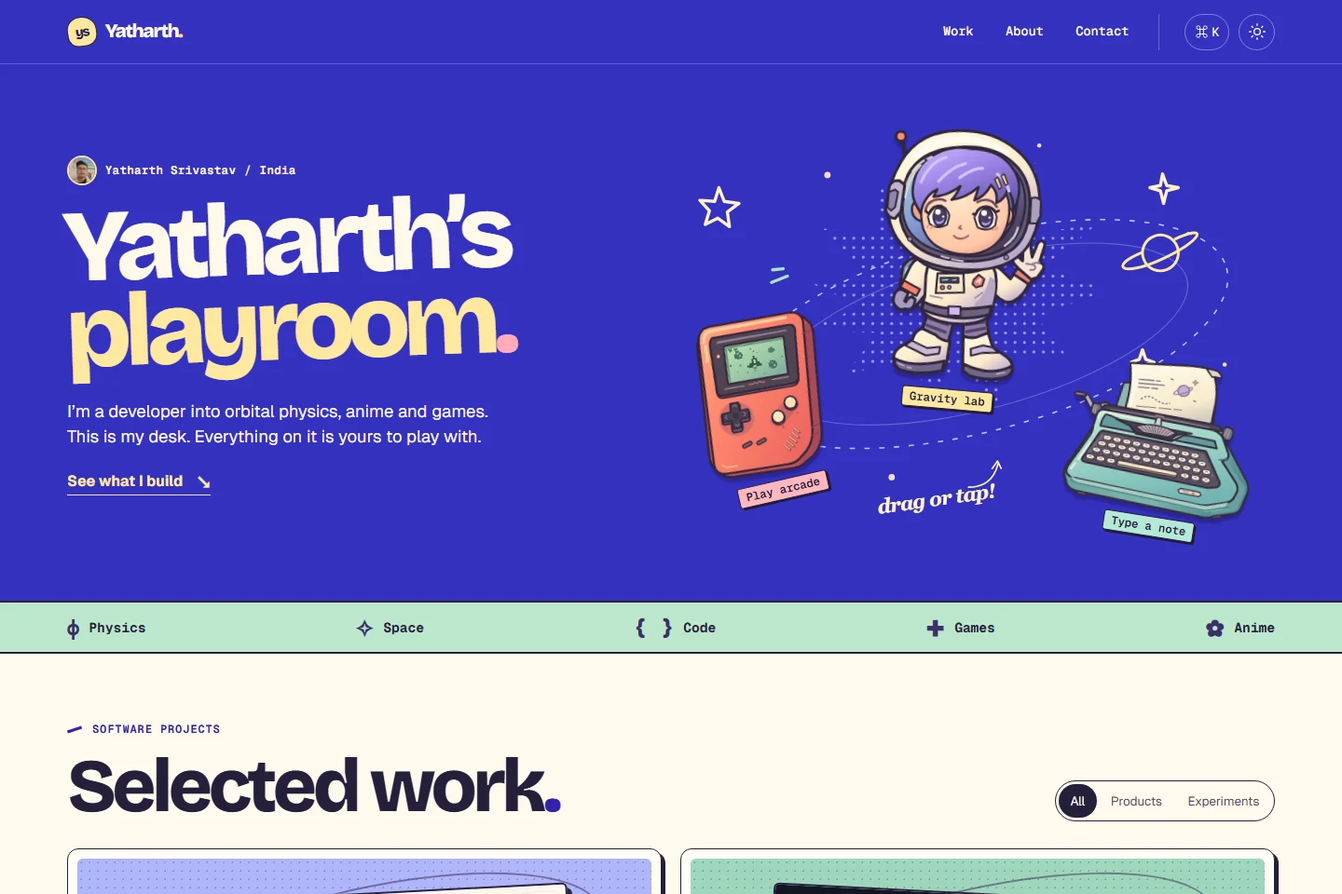
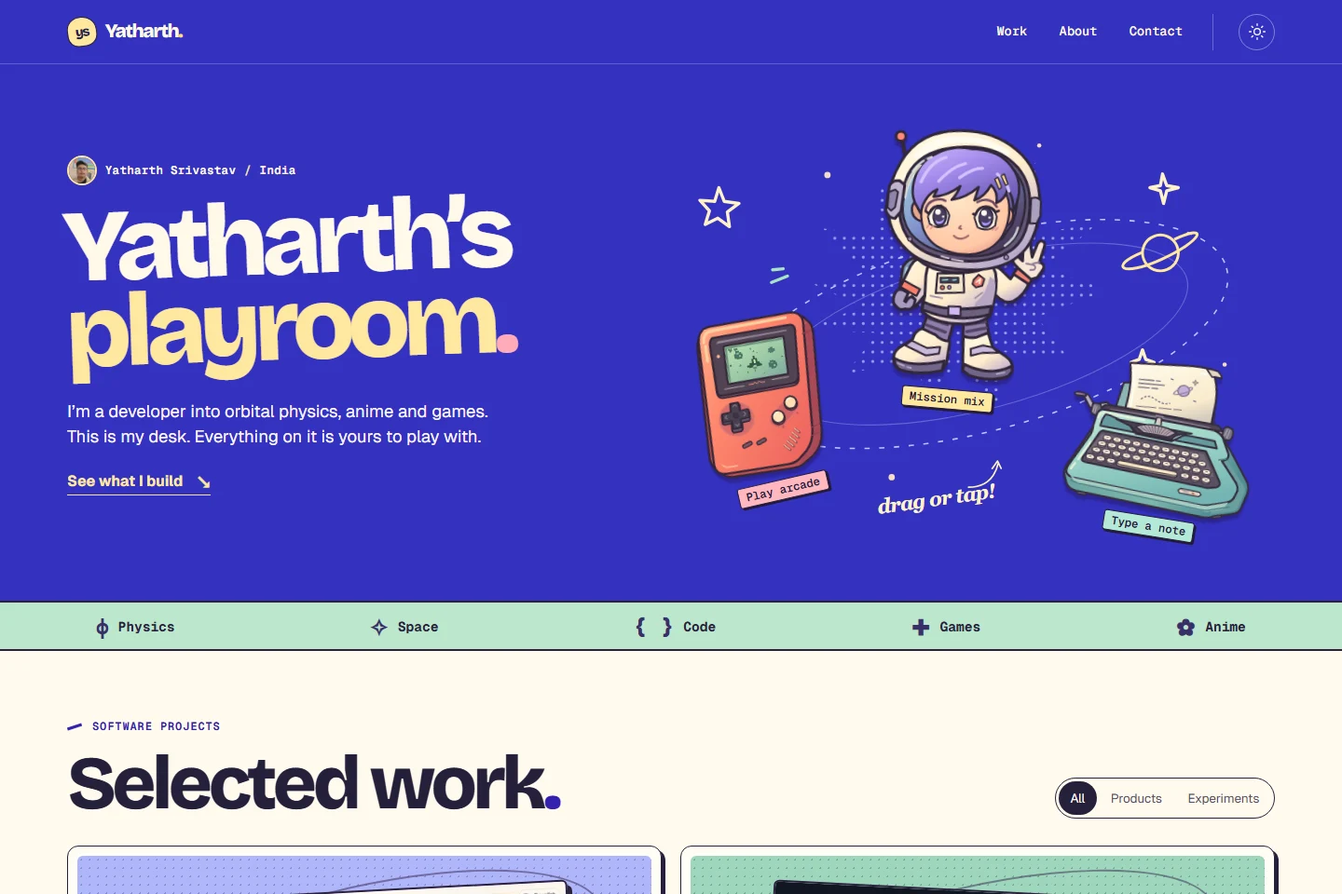
Animate the interest ribbon and add a speed-sensitive rocket cursor

diff --git a/src/studio.css b/src/studio.css
@@ -6,7 +6,7 @@
 .hero{display:grid;grid-template-columns:.98fr 1.02fr;align-items:center;gap:clamp(1rem,4vw,5rem);padding-block:clamp(3rem,6.4vw,6.5rem);position:relative}.eyebrow,.readout,.instrument-head,.art-id,.hint,.journey small{font-family:var(--mono)}.eyebrow{display:flex;align-items:center;gap:11px;text-transform:uppercase;font-size:.75rem;letter-spacing:.115em;font-weight:550;margin:0 0 1.6rem;color:var(--muted)}.eyebrow i{display:block;width:23px;height:2px;background:var(--accent)}h1,h2,h3,p,figure{margin:0}h1,h2,h3{line-height:1.04}h1{font-size:clamp(4rem,6.85vw,7.25rem);font-weight:580;letter-spacing:-.083em}.intro{font-size:clamp(1rem,1.48vw,1.28rem);color:var(--muted);max-width:34ch;line-height:1.55;margin:1.45rem 0 1.8rem}.actions{gap:.7rem;flex-wrap:wrap}.button,.dial{justify-content:center;gap:.55rem;min-height:46px;padding:.65rem 1rem;font-size:.9rem;line-height:1.2;font-weight:600;border:1px solid var(--line);border-radius:7px;background:var(--panel);color:var(--text);width:fit-content}.button .icon,.dial .icon{width:16px}.button.primary{background:var(--accent);color:var(--ink);border-color:transparent}.button.primary:hover{filter:brightness(1.12);color:var(--ink)}.byline{gap:.68rem;margin-top:2.2rem;font-size:.81rem;line-height:1.4;font-weight:560}.byline img{border:1px solid var(--line);width:36px;height:36px;border-radius:50%;object-fit:cover;object-position:50% 32%}.byline small{color:var(--muted);font-size:.75rem;font-weight:400}
 .section{border-top:1px solid var(--line);padding-block:clamp(2.7rem,5.5vw,5rem)}h2{font-weight:560;letter-spacing:-.065em;font-size:clamp(2.5rem,4.1vw,4.2rem)}.section .eyebrow{margin-bottom:.9rem}.section-head{justify-content:space-between;align-items:flex-end;gap:1rem;flex-wrap:wrap;margin-bottom:1.8rem}.filters{border:1px solid var(--line);padding:3px;border-radius:8px;gap:2px}.filters button{min-height:36px;padding:0 .8rem;background:transparent;color:var(--muted);font-size:.84rem;border-radius:5px}.filters button[aria-pressed=true]{background:var(--text);color:var(--bg)}.cards{display:grid;grid-template-columns:repeat(2,minmax(0,1fr));gap:2.3rem 1.5rem}.card{min-width:0}.art,.case-art{position:relative;overflow:hidden;background:#192329;border-radius:11px;border:1px solid var(--line);isolation:isolate}.art{aspect-ratio:2.22}.art img,.case-art img{width:100%;height:100%;object-fit:cover}.art-id{position:absolute;bottom:12px;left:12px;color:#f7f4f0;background:#16181bee;border:1px solid #73747c;border-radius:4px;padding:4px 8px;font-size:.67rem;letter-spacing:.04em;text-transform:uppercase}.card-info{justify-content:space-between;margin-top:1.05rem;gap:.5rem}.card-info h3{font-weight:580;font-size:1.7rem;letter-spacing:-.055em}.card-info p,.muted,.case-body p,.form-note,.journey p,.capture figcaption{color:var(--muted)}.card-info p{margin-top:.4rem}.card-open{flex:none;display:grid;place-items:center;width:37px;height:37px;border:1px solid var(--line);border-radius:50%}.card-hit:hover .card-open{color:var(--ink);background:var(--accent)}.tags{display:flex;flex-wrap:wrap;gap:.45rem;padding:0;margin:.8rem 0 0;list-style:none}.tags li{font-size:.76rem;line-height:1.2;border:1px solid var(--line);padding:.26rem .55rem;border-radius:20px;color:var(--muted)}
 .about-layout,.contact,.case-body{display:grid;grid-template-columns:.78fr 1.22fr;gap:clamp(2rem,6vw,6rem);align-items:center}.portrait{background:var(--panel);border-radius:12px;overflow:hidden}.portrait img{height:clamp(340px,37vw,500px);width:100%;object-fit:cover;object-position:50% 30%}.big-copy{margin:1.3rem 0 .85rem;font-size:clamp(1.1rem,1.8vw,1.45rem);line-height:1.5}.skills{margin-top:1.4rem}.skills>div{display:grid;grid-template-columns:minmax(6rem,.45fr) 1fr;gap:.6rem;padding:.6rem 0;border-top:1px solid var(--line);font-size:.92rem}.skills span{color:var(--muted)}.journey{margin-top:2rem;border-block:1px solid var(--line)}summary{cursor:pointer;padding:1rem 0;font-weight:550}.journey ol{list-style:none;padding:0}.journey li{display:flex;gap:2rem;margin:1rem 0}.journey small{color:var(--accent);flex:none}.contact{grid-template-columns:1fr 1fr;align-items:start}.contact .muted{margin:1.5rem 0 .5rem}.email{text-decoration:underline;text-underline-offset:5px;overflow-wrap:anywhere}.socials{flex-wrap:wrap;gap:1.3rem;margin-top:1.5rem;font-size:.93rem}.contact-form,.demo form{display:grid;gap:.9rem}.contact-form label,.demo label{display:grid;gap:.3rem;font-size:.9rem}.contact-form input,.contact-form textarea,.demo input{border:1px solid var(--line);border-radius:6px;background:var(--panel);color:var(--text);padding:.7rem;min-width:0;width:100%}.contact-form textarea{resize:vertical}.form-note{font-size:.78rem}.foot{justify-content:space-between;gap:1rem;border-top:1px solid var(--line);padding-block:1.4rem;color:var(--muted);font-size:.85rem;flex-wrap:wrap}.foot>span,.plain{gap:.5rem}.foot .mark{width:24px;height:24px}.foot .mark svg{width:18px}.plain{background:transparent;color:inherit;padding:.65rem}.plain .icon{width:16px}
-dialog{border:1px solid var(--line);border-radius:12px;background:var(--panel);color:var(--text);width:min(92vw,32rem);padding:1.2rem;box-shadow:0 30px 100px #0008;max-height:82dvh}dialog::backdrop{background:#08090bc9}.modal-head{justify-content:space-between;gap:1rem;margin-bottom:.8rem}.modal-head h2,aside h2,.demo h2,.case-body h2{font-size:1.45rem;letter-spacing:-.04em}.search,#cli label{gap:.5rem;border:1px solid var(--line);padding:.65rem .8rem;border-radius:6px}.search input,#cli input{width:100%;min-width:0;background:transparent;color:var(--text);border:0}.search input:focus-visible,#cli input:focus-visible{outline-offset:0}.hint{font-size:.73rem;color:var(--muted);margin-top:.7rem}#commands{display:grid;max-height:44dvh;overflow:auto;margin-top:.6rem;gap:.15rem}#commands button{display:flex;justify-content:space-between;background:transparent;border-radius:4px;padding:.65rem;text-align:left}#commands button:hover,#commands button:focus-visible{background:var(--bg);outline-offset:-3px}#commands small{color:var(--muted)}#history{font:.9rem/1.6 var(--mono);white-space:pre-wrap;overflow-wrap:anywhere;overflow:auto;max-height:40dvh}#history p{margin-block:.6rem}#cli{display:flex;gap:.5rem;margin-top:1rem}#cli label{display:flex;align-items:center;flex:1;color:var(--accent);white-space:nowrap}#cli button{background:var(--accent);color:var(--ink);border-radius:5px;padding:.4rem .8rem}
+dialog{border:1px solid var(--line);border-radius:12px;background:var(--panel);color:var(--text);width:min(92vw,32rem);padding:1.2rem;box-shadow:0 30px 100px #0008;max-height:82dvh}dialog::backdrop{background:#08090bc9}.modal-head{justify-content:space-between;gap:1rem;margin-bottom:.8rem}.modal-head h2,aside h2,.demo h2,.case-body h2{font-size:1.45rem;letter-spacing:-.04em}.search,#cli label{gap:.5rem;border:1px solid var(--line);padding:.65rem .8rem;border-radius:6px}.search input,#cli input{width:100%;min-width:0;background:transparent;color:var(--text);border:0}.search input:focus-visible,#cli input:focus-visible{outline-offset:0}.hint{font-size:.73rem;color:var(--muted);margin-top:.7rem}#history{font:.9rem/1.6 var(--mono);white-space:pre-wrap;overflow-wrap:anywhere;overflow:auto;max-height:40dvh}#history p{margin-block:.6rem}#cli{display:flex;gap:.5rem;margin-top:1rem}#cli label{display:flex;align-items:center;flex:1;color:var(--accent);white-space:nowrap}#cli button{background:var(--accent);color:var(--ink);border-radius:5px;padding:.4rem .8rem}
 .case{padding-block:2.5rem 4rem}.back{display:inline-block;text-decoration:underline;text-underline-offset:4px;margin:0 0 2rem}.case .eyebrow{margin-bottom:.75rem}.case-intro{font-size:1.3rem;color:var(--muted);margin:1rem 0}.case-art{margin-block:2rem;aspect-ratio:3.8;max-height:480px}.case-art img{object-fit:contain}.case-body{grid-template-columns:2fr 1fr;align-items:start;max-width:65rem}.case-body h2{margin-top:1.6rem}.case-body p{margin:.6rem 0}.case-body aside{display:grid;gap:.6rem}.capture{margin:2rem 0}.capture img{width:min(100%,58rem);height:auto;border-radius:8px}.capture figcaption{font-size:.8rem;margin-top:.5rem}.case>.back:last-child{margin:3rem 0 0}.demo{max-width:40rem;margin-top:2rem;border:1px solid var(--line);border-radius:12px;padding:1.5rem}.demo form{margin-top:1rem}.paper{background:#ffedcf;color:#332416;font:1rem/1.5 var(--mono);padding:1.5rem;margin-top:1rem;overflow-wrap:anywhere}
 @media(min-width:1700px){.screen{aspect-ratio:1.6}}
 @media(max-width:850px){.wrap{width:90%}.hero{gap:1.6rem}.hero h1{font-size:clamp(3.5rem,7.4vw,5rem)}.screen{aspect-ratio:1.4}.hero .actions{gap:.45rem}.actions .button{padding:.65rem .75rem}.bar{gap:1rem}.bar nav{gap:1.1rem}.utilities{padding-left:1rem}}
@@ -25,7 +25,6 @@ body{background:var(--bg)}h1,h2,h3,.brand b,.card-info h3{font-family:var(--disp
 .toy-scene{position:relative;isolation:isolate;aspect-ratio:1.43;width:100%;max-width:45rem;justify-self:end}.sky-ink{position:absolute;inset:0;width:100%;height:100%;pointer-events:none}.shelf-toy{position:absolute;touch-action:none;user-select:none;display:flex;align-items:center;justify-content:flex-end;flex-direction:column;gap:0;border:0;background:transparent;padding:0;color:#241e38;cursor:grab;z-index:2;border-radius:16px}.shelf-toy img{width:100%;height:calc(100% - 1.55rem);object-fit:contain;pointer-events:none;filter:drop-shadow(0 5px 1px #21155b6b);transition:transform .18s ease-out}.shelf-toy:focus-visible,.shelf-toy.held{z-index:5}.shelf-toy.held{cursor:grabbing}.shelf-toy:is(:hover,:focus-visible,.held) img{transform:translateY(-4px) rotate(-3deg)}.shelf-toy span{background:var(--butter);border:1.5px solid #231b3a;border-radius:3px;padding:.12rem .48rem;font:600 clamp(.74rem,.85vw,.84rem)/1.35 var(--mono);box-shadow:2px 2px #231b3a;white-space:nowrap}.toy-pilot{height:66%;width:38%;left:31%;top:3%;transform:rotate(5deg)}.toy-handheld{height:45%;width:30%;left:4%;top:45%;transform:rotate(-13deg)}.toy-handheld span{background:#ffb7bf}.toy-typewriter{width:36%;height:42%;right:0;top:56%;transform:rotate(9deg)}.toy-typewriter span{background:#b4ead7}.scribble-tip{position:absolute;top:87%;left:37%;font:italic 700 clamp(.93rem,1.5vw,1.35rem)/1.05 Georgia,serif;letter-spacing:-.035em;transform:rotate(-8deg);color:#fff3c7}.scribble-tip svg{width:46px;position:absolute;left:78%;bottom:65%;transform:rotate(-35deg)}
 .interest-strip{background:#bce7cd;color:#27223a;border-block:2px solid #292139}.interest-strip ul{list-style:none;padding:0;min-height:53px;display:flex;gap:1rem;align-items:center;justify-content:space-between}.interest-strip li{display:flex;gap:.63rem;align-items:center;font:700 .91rem var(--mono)}.interest-strip li span{color:#39306a;font-size:1.5rem;font-weight:800}
 .section{padding-block:clamp(2.8rem,5vw,5rem)}.work{border-top:0}.section .eyebrow,.case .eyebrow{font-weight:650;letter-spacing:.075em;color:var(--accent)}.eyebrow i{width:16px;transform:rotate(-18deg);height:3px}.section-head h2{font-size:clamp(3.15rem,5.6vw,5.4rem);line-height:.93}.filters{border:1.5px solid var(--text);border-radius:30px;padding:3px}.filters button{border-radius:30px}.filters button[aria-pressed=true]{background:var(--text);color:var(--bg)}.cards{gap:1.7rem 1.3rem}.card{background:var(--panel);border:1.5px solid var(--text);border-radius:12px;padding:.62rem .62rem 1rem;box-shadow:4px 4px 0 var(--text);transition:transform .16s,box-shadow .16s}.card:focus-within,.card:hover{transform:translate(-2px,-2px);box-shadow:6px 6px var(--text)}.art{border:0;border-radius:6px;aspect-ratio:2.7}.art-id{font-weight:600;letter-spacing:.02em;color:#30273e;background:#fff2cd;border:1px solid #31283c;transform:rotate(-2deg);font-size:.72rem}.card-info,.card>.tags{margin-inline:.55rem}.card-info h3{font-size:clamp(1.7rem,2.6vw,2.7rem)}.card-open{width:34px;height:34px;border-color:var(--text)}.card-info p{margin-top:.28rem}.case .case-art{background:#25243d}.case>h1{font-size:clamp(3.3rem,7vw,7rem)}.about-layout .portrait{border:2px solid var(--text);box-shadow:6px 6px var(--text);transform:rotate(-1.8deg)}.contact-form{border:1.5px solid var(--text);padding:clamp(1rem,2vw,2rem);border-radius:12px;background:var(--panel);box-shadow:4px 4px var(--text)}.contact .email{font-family:var(--mono);font-size:clamp(.86rem,1.3vw,1.1rem)}.button,.contact-form input,.contact-form textarea{border-radius:8px}.foot .mark{font-size:.7rem}.toy-dialog{width:min(93vw,31rem);padding:clamp(1rem,3vw,1.55rem);border:2px solid var(--text);border-radius:16px;box-shadow:6px 6px 0 #171427;overscroll-behavior:contain}.toy-dialog::backdrop{background:#171134bb}.toy-dialog .modal-head h2{font:800 clamp(1.8rem,5vw,2.7rem)/1 var(--display);letter-spacing:-.065em}.toy-dialog>p,.toy-dialog form label{color:var(--muted);font-size:1rem}.toy-dialog output{display:block;font:.82rem/1.5 var(--mono);margin-top:.65rem}.toy-dialog .toy-close{border-radius:50%;font-size:1.6rem;min-width:41px;height:41px}.toy-action{padding:.67rem 1rem;border:1.5px solid #261c3b;border-radius:7px;background:var(--butter);color:#291f3b;font-weight:700;box-shadow:2px 2px #261c3b}.toy-action:active,.dpad button:active{transform:translate(2px,2px);box-shadow:none}.toy-dialog button:focus-visible,.toy-dialog a:focus-visible{outline-color:var(--accent)}
-.gravity-stage{background:#2f2875;border:2px solid #221b37;position:relative;overflow:hidden;border-radius:9px;margin:.9rem 0;background-image:radial-gradient(#b4abdf 1px,transparent 1px);background-size:20px 20px}.gravity-stage svg{width:100%;display:block}.gravity-stage:after{content:'';position:absolute;bottom:10%;left:0;right:0;border-top:1px dashed #eed286}.worlds{display:flex;gap:1.2rem;padding:0;border:0;margin:0 0 .7rem}.worlds legend{font-weight:650}.worlds label{padding:.35rem 0}.worlds input{accent-color:#5139ce}
 .arcade-console{background:#f49196;border:2px solid #281e38;border-radius:12px 12px 26px 12px;padding:.8rem;margin-block:.85rem .4rem}.star-grid{display:grid;grid-template-columns:repeat(5,1fr);width:min(100%,14rem);margin:auto;aspect-ratio:1;background:#222039;border:6px solid #30263d;border-radius:7px;gap:2px}.tile{background:#3b3955;display:grid;place-items:center}.tile:before{content:'';width:60%;aspect-ratio:1}.tile-ship:before{background:#adf4d9;clip-path:polygon(50% 0,100% 95%,50% 75%,0 95%)}.tile-star:before{background:#ffe582;clip-path:polygon(50% 0,65% 32%,100% 40%,76% 65%,80% 100%,50% 84%,20% 100%,24% 64%,0 40%,34% 31%)}.tile-rock:before{background:#aea0c8;clip-path:polygon(29% 8%,75% 6%,99% 40%,87% 81%,42% 98%,7% 78%,0 37%)}.arcade-controls{display:flex;align-items:center;justify-content:center;gap:1.4rem;margin-top:.7rem}.dpad{display:grid;grid-template:repeat(2,2.45rem)/repeat(3,2.45rem);gap:2px}.dpad button{background:#32283f;color:white;border:1px solid #22172f;border-radius:5px}.dpad [data-steer=up]{grid-column:2}.dpad [data-steer=left]{grid-row:2}.text-button{background:transparent;color:#2a2133;text-decoration:underline;padding:.65rem .2rem;font-weight:650}.dialog-typewriter textarea{width:100%;margin:.55rem 0;background:var(--bg);border:1px solid var(--muted);border-radius:6px;color:var(--text);padding:.75rem;font:1rem/1.5 var(--mono);resize:vertical}.writer-actions{display:flex;align-items:center;gap:1rem}.writer-actions span{font:.78rem var(--mono);color:var(--muted)}.typed-sheet{margin-top:1rem;background:#fff2cc;color:#282239;padding:1rem;border-radius:2px;border:1px solid #9f9277}.typed-sheet p{font:1rem/1.7 var(--mono);white-space:pre-wrap;overflow-wrap:anywhere}.typed-sheet .typing:after{content:'▍'}.typed-sheet a{display:inline-block;text-decoration:underline;font-size:.84rem;margin-top:.8rem}
 @media(max-width:850px){.room-inner{min-height:450px;grid-template-columns:.92fr 1.08fr;gap:0}.room h1{font-size:clamp(3.7rem,8.4vw,5.4rem)}.room-intro{max-width:30ch}.toy-scene{aspect-ratio:1.15}.toy-pilot{height:58%;top:5%}.toy-handheld{height:40%}.toy-typewriter{height:39%;top:55%}.scribble-tip{top:86%;left:31%}}
 @media(max-width:680px){.bar{min-height:58px}.room-inner{display:flex;flex-direction:column;align-items:stretch;gap:0;padding:1.6rem 0 1rem;min-height:0}.room h1{font-size:clamp(3.7rem,13vw,5.5rem);margin:.9rem 0 .8rem}.room-intro{max-width:38ch}.room-link{margin-top:.62rem}.room-copy{z-index:auto}.toy-scene{align-self:center;width:min(100%,29rem);aspect-ratio:1.64;margin-top:.45rem}.toy-pilot{top:0;height:73%;width:34%;left:34%}.toy-handheld{top:42%;height:49%;width:29%}.toy-typewriter{top:48%;height:48%;width:33%}.scribble-tip{top:85%;left:34%}.interest-strip ul{width:94%;gap:.25rem;min-height:45px;justify-content:space-around;flex-wrap:wrap}.interest-strip li{gap:.25rem;font-size:.73rem}.interest-strip li span{font-size:.95rem}.section-head{gap:.85rem}.art{aspect-ratio:2.1}.shelf-toy span{font-size:.71rem}.section-head h2{font-size:3.05rem}.signature{font-size:.74rem}.signature img{width:26px;height:26px}.filters button{min-height:37px}.card-info h3{font-size:1.9rem}}
@@ -35,3 +34,30 @@ body{background:var(--bg)}h1,h2,h3,.brand b,.card-info h3{font-family:var(--disp
 .interest-strip ul{margin-block:0}.room h1{letter-spacing:-.071em}.section-head h2{letter-spacing:-.06em}@media(max-width:440px){.bar .brand b{display:none}.bar .brand{margin-right:auto}.bar nav{margin-left:0}.utilities{margin-left:.25rem}.room .signature img{flex:none}}
 .poster{--stock:#afb5fa;display:grid;place-items:center;background-color:var(--stock);background-image:radial-gradient(#3d32554d 1px,transparent 1px);background-size:9px 9px}.poster.art-ultron{--stock:#9ed6bd}.poster.art-claimguard{--stock:#f6b4a6}.poster.art-orbital{--stock:#abafef}.poster.art-afteryou{--stock:#f4d38a}.poster:before{content:'';position:absolute;width:85%;height:72%;border:2px solid #33234c80;border-radius:50%;transform:rotate(-13deg)}.poster img{width:73%;height:auto;max-height:none;align-self:start;margin-top:6%;object-fit:contain;transform:rotate(-3deg);box-shadow:5px 6px #2b213c;border:2px solid #2b213c;border-radius:6px;transition:transform .18s}.card:nth-child(even) .poster img{transform:rotate(3deg)}.card-hit:hover .poster img,.card-hit:focus-visible .poster img{transform:translateY(-3%) rotate(0deg)}.poster .art-id{left:9px;bottom:9px}
 @media(prefers-reduced-motion:reduce){.poster img{transition:none}}
+/* Each ribbon copy has the same width, so the seam passes without a jump. */
+.interest-strip{display:flex;align-items:stretch;min-width:0}
+.ribbon-window{flex:1;min-width:0;overflow:hidden;container-type:inline-size}
+.ribbon-track{display:flex;width:max-content;animation:interest-scroll 25s linear infinite}
+.interest-strip .ribbon-track ul{width:max(100cqw,37rem);min-height:3.15rem;margin:0;flex:none;padding:0;gap:0;justify-content:space-around;flex-wrap:nowrap;align-items:center}
+.ribbon-track li{white-space:nowrap}.interest-strip[data-paused=true] .ribbon-track{animation-play-state:paused}
+.ribbon-switch{background:#bce7cd;color:#292139;border-left:1px solid #54846a;min-width:44px;font:700 1rem var(--mono)}
+.ribbon-switch:hover{background:#a8d9bd}.ribbon-switch:focus-visible{outline:3px solid #352580;outline-offset:-4px}
+@keyframes interest-scroll{to{transform:translateX(-50%)}}
+@media(prefers-reduced-motion:reduce){.ribbon-track{width:100%;animation:none}.interest-strip .ribbon-track ul{width:100%;flex-wrap:wrap;gap:.2rem}.ribbon-track ul[aria-hidden=true],.ribbon-switch{display:none}}
+.cursor-rocket{position:fixed;left:0;top:0;z-index:1000;width:0;height:0;pointer-events:none;user-select:none;will-change:transform}
+.cursor-rocket svg{position:absolute;left:-33px;top:-14px;max-width:none;overflow:visible;filter:drop-shadow(0 1px 1px #231a3980)}
+@media(prefers-reduced-motion:reduce),(any-hover:none){.cursor-rocket{display:none}}
+.mission-panel{padding:1rem;border:2px solid #302841;border-radius:11px;background-color:#302853;color:#fff5d6;background-image:radial-gradient(#d7cafd48 .85px,transparent .85px);background-size:17px 17px}
+.mission-panel h3{font:800 1.6rem/1.05 var(--display);color:#ffdf91;letter-spacing:-.05em}
+#mission-brief{font-size:.97rem;line-height:1.42;margin:.55rem 0 .9rem;background:#302853}
+.mission-board{display:grid;gap:.45rem}
+.mission-board button{background:#484064;color:#fff3c1;border:1.5px solid #ccbee8;border-radius:8px;min-height:42px;font:650 1rem var(--mono)}
+.mission-board button:hover,.mission-board button:focus-visible{background:#635684;color:#fff}
+.mission-board button:focus-visible{outline:3px solid #ffe593;outline-offset:1px}
+.board-relay{grid-template-columns:repeat(4,1fr)}.radio-code,.signal-start{grid-column:1/-1}
+.radio-code{text-align:center;color:#b4ffe0;font:700 clamp(1.35rem,5vw,2.25rem) var(--mono);letter-spacing:.09em;padding:.65rem 0}
+.mission-board .signal-key,.mission-board.board-sweep button{font-size:1.4rem}
+.board-lock{grid-template-columns:repeat(3,1fr)}.antenna{display:grid;place-content:center;gap:.3rem;padding:.65rem .25rem}
+.antenna span{border:2px dashed #9cdec1;border-radius:50%;color:#b0ffdb;line-height:2.25rem;width:2.5rem;font-size:1.5rem}
+.antenna small{font-size:.68rem;color:#fff1c1}.board-sweep{grid-template-columns:repeat(4,1fr)}
+.board-sweep .found{background:#a6ebc7;color:#231e36}.toy-dialog #next-mission{margin-top:.7rem}

diff --git a/src/studio.js b/src/studio.js
@@ -1,3 +1,4 @@
+import './rocket.js';
 const $ = selector => document.querySelector(selector);
 const data = JSON.parse($('#site-data').textContent);
 const theme = $('[data-theme-toggle]');
@@ -19,57 +20,15 @@ for(const button of filters) button.addEventListener('click',()=>{
   filters.forEach(other=>other.setAttribute('aria-pressed',String(other===button)));
   $('#filter-status').textContent=`Showing ${count} projects.`;
 });
-const palette=$('#palette'),terminal=$('#terminal'),query=$('#query');
-let returnFocus=null;
-function openDialog(dialog){
-  const old=document.querySelector('dialog[open]');
-  if(old===dialog)return;
-  if(old)old.close();else returnFocus=document.activeElement;
-  if(dialog===palette){query.value='';renderCommands();}
-  dialog.showModal();(dialog===palette?query:$('#cli input')).focus();
-}
-for(const button of document.querySelectorAll('[data-open]'))button.addEventListener('click',()=>openDialog(document.getElementById(button.dataset.open)));
-for(const dialog of [palette,terminal]){
-  dialog.querySelector('[data-close]').addEventListener('click',()=>dialog.close());
-  dialog.addEventListener('close',()=>{if(!document.querySelector('dialog[open]')&&returnFocus?.isConnected)returnFocus.focus({preventScroll:true});});
-}
-document.addEventListener('keydown',event=>{
-  if((event.ctrlKey||event.metaKey)&&event.key.toLowerCase()==='k'){event.preventDefault();if(palette.open)palette.close();else openDialog(palette);}
-});
-const go=path=>{palette.close();location.href=path;};
-const commands=[
-  ...['Work','About','Contact'].map(k=>[k,'Section',()=>go(data.home+'#'+k.toLowerCase())]),
-  ...data.projects.map(p=>[p.name,'Project',()=>go(p.path)]),
-  ['Toggle theme','Display',()=>{toggleTheme();palette.close();}],
-  ['Copy email','Contact',async()=>{try{await navigator.clipboard.writeText(data.email);query.value='';$('#commands').textContent='Email address copied.';}catch{$('#commands').textContent=data.email;}}],
-  ['Open terminal','Tool',()=>openDialog(terminal)]
-];
-function renderCommands(){
-  const list=$('#commands');list.replaceChildren();
-  const needle=query.value.trim().toLowerCase();
-  for(const [title,group,action] of commands.filter(([name,group])=>(name+' '+group).toLowerCase().includes(needle))){
-    const b=document.createElement('button'),meta=document.createElement('small');
-    b.append(title);meta.textContent=group;b.append(meta);
-    b.addEventListener('click',action);list.append(b);
-  }
-  if(!list.children.length)list.textContent='No matching commands.';
-}
-query.addEventListener('input',renderCommands);
-palette.addEventListener('keydown',event=>{
-  const buttons=[...document.querySelectorAll('#commands button')];
-  if(!buttons.length)return;
-  if(event.key==='Enter'&&document.activeElement===query){event.preventDefault();buttons[0].click();}
-  if(['ArrowUp','ArrowDown'].includes(event.key)){
-    event.preventDefault();
-    const pos=buttons.indexOf(document.activeElement);
-    const index=pos<0?(event.key==='ArrowDown'?0:buttons.length-1):(pos+(event.key==='ArrowDown'?1:-1)+buttons.length)%buttons.length;
-    buttons[index].focus();
-  }
-});
+const terminal = $('#terminal');
+const terminalButton = $('[data-open="terminal"]');
+terminalButton.addEventListener('click', () => { terminal.showModal(); $('#cli input').focus(); });
+terminal.querySelector('[data-close]').addEventListener('click', () => terminal.close());
+terminal.addEventListener('close', () => terminalButton.focus({preventScroll:true}));
 $('#cli').addEventListener('submit',event=>{
   event.preventDefault();const input=event.currentTarget.elements.command;
   const cmd=input.value.trim().toLowerCase();if(!cmd)return;
-  const replies={help:'help · projects · about · contact · sudo hire-me · clear',projects:data.projects.map(p=>p.name).join(' / '),about:'Yatharth Srivastav — student developer and designer in India.',contact:data.email,'sudo hire-me':`Start a conversation at ${data.email}`};
+  const replies={help:'help · projects · about · contact · sudo hire-me · clear',projects:data.projects.join(' / '),about:'Yatharth Srivastav — student developer and designer in India.',contact:data.email,'sudo hire-me':`Start a conversation at ${data.email}`};
   const history=$('#history');
   if(cmd==='clear')history.replaceChildren();
   else{const out=document.createElement('p');out.textContent=`$ ${cmd}\n${Object.hasOwn(replies,cmd)?replies[cmd]:'Unknown command. Try help.'}`;history.append(out);}
@@ -94,4 +53,3 @@ $('#writer')?.addEventListener('submit',event=>{
   const paper=document.createElement('p');paper.textContent=message;paper.className='paper';
   paper.style.paddingInlineStart=(Number($('#carriage').value)+4)+'%';$('#prints').prepend(paper);note.value='';
 });
-

diff --git a/src/rocket.js b/src/rocket.js
@@ -1,0 +1,57 @@
+// Keep the system pointer as the precise hotspot. Only run frames while the rocket is moving or cooling.
+const finePointer = matchMedia('(any-pointer: fine) and (any-hover: hover)');
+const reducedMotion = matchMedia('(prefers-reduced-motion: reduce)');
+let rocket, flame, sparks, frame = 0, lastFrame = 0;
+let x, y, targetX, targetY, lastMove = 0, speed = 0, throttle = 0, heading = 0, desiredHeading = 0;
+
+function buildRocket() {
+  rocket = document.createElement('div');
+  rocket.className = 'cursor-rocket';
+  rocket.setAttribute('aria-hidden','true');
+  rocket.innerHTML = `<svg viewBox="0 0 70 36" width="54" height="28" fill="none">
+    <g class="jet-sparks" fill="#ffdf89"><circle cx="-12" cy="-2" r="1.8"/><circle cx="-17" cy="1" r="1.3"/><circle cx="-22" cy="-1" r=".8"/></g>
+    <g class="jet-flame"><path d="M0-4Q-5-4-12 0Q-5 4 0 4Z" fill="#ff754f"/><path d="M0-2.2Q-3-2.3-8 0Q-3 2.2 0 2.2Z" fill="#ffe798"/></g>
+    <g stroke="#29203e" stroke-width="1.7" stroke-linejoin="round"><path d="m34 12-5-6 10 1 8 6m-13 9-5 7 11-2 7-6" fill="#ff939c"/><path d="M31 13q17-7 31 5-14 12-31 5z" fill="#fff4ce"/><path d="M54 13q5 2 8 5-4 3-8 5 3-5 0-10z" fill="#ff959f"/><path d="M29 13h4v10h-4z" fill="#a6a1df"/><circle cx="45" cy="18" r="3.6" fill="#7bd6d2"/></g>
+  </svg>`;
+  flame=rocket.querySelector('.jet-flame'); sparks=rocket.querySelector('.jet-sparks');
+}
+function hide() {
+  cancelAnimationFrame(frame); frame=0; lastMove=0; lastFrame=0; speed=0; throttle=0;
+  if(rocket) rocket.hidden=true;
+}
+function paint(time) {
+  const dt=Math.max(1,Math.min(45,time-(lastFrame || time-16))); lastFrame=time;
+  const follow=1-Math.exp(-dt/38);
+  x+=(targetX-x)*follow; y+=(targetY-y)*follow;
+  heading+=Math.atan2(Math.sin(desiredHeading-heading), Math.cos(desiredHeading-heading))*follow;
+  const power=Math.min(1,speed/1.75)*Math.exp(-Math.max(0,time-lastMove-24)/105);
+  throttle+=(power-throttle)*(1-Math.exp(-dt/68));
+  const shimmer=1+.065*throttle*Math.sin(time*.06);
+  flame.setAttribute('transform','translate(29 18) scale('+((.34+throttle*1.75)*shimmer)+' '+(.50+throttle*.63)+')');
+  sparks.setAttribute('transform','translate(28 18) scale('+(1+.12*Math.sin(time*.025))+ ' 1)');
+  sparks.style.opacity=String(Math.max(0,(throttle-.28)*1.3));
+  rocket.style.transform='translate3d('+x+'px,'+y+'px,0) rotate('+heading+'rad)';
+  if(time-lastMove<600 || throttle>.013 || Math.hypot(targetX-x,targetY-y)>.3) frame=requestAnimationFrame(paint);
+  else {frame=0; lastFrame=0;}
+}
+document.addEventListener('pointermove', event=>{
+  if(event.pointerType!=='mouse'||!finePointer.matches||reducedMotion.matches||event.target.closest?.('input,textarea,[contenteditable="true"]')) {hide();return;}
+  if(!rocket) buildRocket();
+  const layer=event.target.closest?.('dialog[open]') || document.body;
+  if(rocket.parentNode!==layer) layer.append(rocket);
+  const now=performance.now(), nx=event.clientX+10, ny=event.clientY+14;
+  const elapsed=now-lastMove;
+  if(!lastMove || rocket.hidden) {x=nx;y=ny;speed=0;heading=desiredHeading=-Math.PI/4;}
+  else {
+    const dx=nx-targetX,dy=ny-targetY, distance=Math.hypot(dx,dy);
+    speed=distance/Math.max(4,elapsed);
+    if(distance>.6) desiredHeading=Math.atan2(dy,dx);
+  }
+  targetX=nx;targetY=ny;lastMove=now;rocket.hidden=false;
+  if(!frame) frame=requestAnimationFrame(paint);
+},{passive:true});
+document.addEventListener('pointerout',e=>{if(!e.relatedTarget) hide();});
+document.addEventListener('pointerdown',e=>{if(e.pointerType!=='mouse') hide();},{passive:true});
+window.addEventListener('blur',hide);
+document.addEventListener('visibilitychange',()=>{if(document.hidden)hide();});
+finePointer.addEventListener('change',hide); reducedMotion.addEventListener('change',hide);

diff --git a/docs/README-DEV.md b/docs/README-DEV.md
@@ -4,11 +4,11 @@ Use Node.js 22 or newer. From the repository root run `npm run build`, `npm run 
 
 ## Add a project
 
-Edit `src/data/portfolio.json`. Duplicate a project and give it a unique lowercase URL-safe `id`. The ID is the permanent case study URL. Set its name, category (Products or Experiments), kind, description, problem, approach, and stack. Place project art in `src/assets/` and set `art` to the filename. Use the optional `repo` and `live` fields only for public destinations. For a verified screenshot, add `capture`, `captureAlt`, `captureWidth` and `captureHeight`. Record confirmed roles in `role`. The homepage, case page, sitemap and command palette are built from those entries.
+Edit `src/data/portfolio.json`. Duplicate a project and give it a unique lowercase URL-safe `id`. The ID is the permanent case study URL. Set its name, category (Products or Experiments), kind, description, problem, approach, and stack. Place project art in `src/assets/` and set `art` to the filename. Use the optional `repo` and `live` fields only for public destinations. For a verified screenshot, add `capture`, `captureAlt`, `captureWidth` and `captureHeight`. Record confirmed roles in `role`. The homepage, case page, and sitemap are built from those entries.
 
 ## Change the look or content
 
-Edit the Playroom light and dark token blocks in `src/studio.css` for the dark and light palettes. Geist Sans and Geist Mono are served locally from `src/assets/fonts/`, alongside their license. Edit the portrait, contact, biography, social links and dated journey in the data file. `scripts/build.mjs` holds the shared HTML templates. `src/studio.js` handles the filter, palette, terminal, contact form and After You case study typewriter.
+Edit the Playroom light and dark token blocks in `src/studio.css` for the dark and light palettes. Geist Sans and Geist Mono are served locally from `src/assets/fonts/`, alongside their license. Edit the portrait, contact, biography, social links and dated journey in the data file. `scripts/build.mjs` holds the shared HTML templates. `src/studio.js` handles the filter, terminal, contact form and After You case study typewriter.
 
 ## Check and publish
 
@@ -27,4 +27,4 @@ The account-named repository has its own `README.md` and daily workflow. Edit it
 
 ## The toy shelf
 
-Edit the introduction and interest strip under `playroom` in `src/data/portfolio.json`. Keep editable project facts in the same file. `scripts/playroom.mjs` builds the shelf and toy dialogs, `src/playroom.js` handles the controls, and `src/assets/playroom/` contains the original character and objects. The final palette tokens and toy styles are in `src/studio.css`. Bricolage Grotesque is self-hosted under the SIL Open Font License.
+Edit the introduction and interest strip under `playroom` in `src/data/portfolio.json`. Keep editable project facts in the same file. `scripts/playroom.mjs` builds the shelf and toy dialogs, `src/playroom.js` handles the controls and generates reachable arcade maps, `src/missions.js` runs the three pilot challenges, `src/rocket.js` draws the pointer companion, and `src/assets/playroom/` contains the original character and objects. The final palette tokens and toy styles are in `src/studio.css`. Bricolage Grotesque is self-hosted under the SIL Open Font License.

diff --git a/README.md b/README.md
@@ -4,7 +4,7 @@
 
 ![Yatharth’s Playroom with its illustrated toy shelf and selected projects](docs/portfolio-desktop.webp)
 
-Five case studies connect satellite tracking, a local Windows voice assistant, compliance review, orbital visualization and a playful browser typewriter. Press **Ctrl/Cmd + K** to jump between them. Drag the toys, launch the astronaut, solve Star Courier, or print a note on the pocket typewriter.
+Five case studies connect satellite tracking, a local Windows voice assistant, compliance review, orbital visualization and a playful browser typewriter. Drag the toys, pick up a surprise pilot mission, explore a fresh Star Courier map, or print a note on the pocket typewriter.
 
 ## Run locally
 
@@ -19,4 +19,3 @@ npm run preview
 Open `http://127.0.0.1:4173/Yatharth-Portfolio/`. Edit project descriptions in `src/data/portfolio.json`. Push a feature branch and open a pull request. Verified changes to main deploy via GitHub Actions.
 
 [Development guide](docs/README-DEV.md) · [Source inventory](docs/RECON.md)
-
